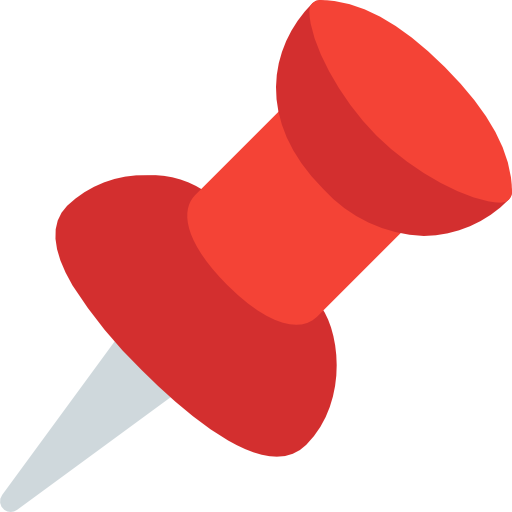
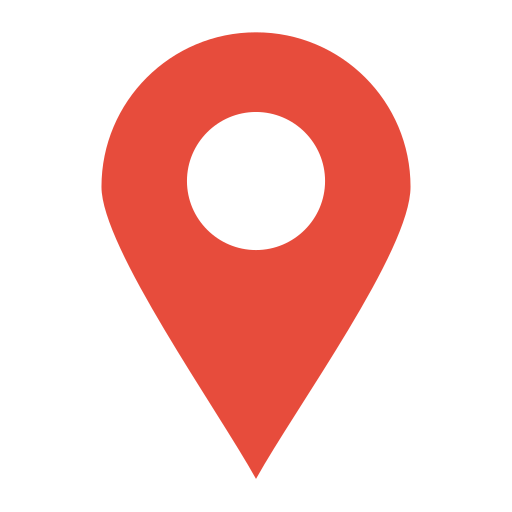
Add header to pin locations and style pinned container
- add a header with an img to pinned locations container
- updated pinned box generator to include a class to target in styling
- implemented hover effect to show/hide close button
- close button set to the top outer right corner
- pin-box set to 1 level deep using flex row
- add new image for pinned locations container and replace pin image with different pin image

diff --git a/src/style.css b/src/style.css
@@ -1,8 +1,9 @@
 body {
   display: grid;
-  grid-template-columns: minmax(100px, 300px) minmax(600px, 1fr);
+  grid-template-columns: minmax(100px, 350px) minmax(600px, 1fr);
   grid-template-rows: minmax(max-content, 70px) minmax(100px, 1fr);
   grid-template-areas: "pins search" "pins dashboard";
+  padding: 10px;
 }
 
 /* search component  */
@@ -65,6 +66,66 @@ body {
 
 .pinned-locations {
   grid-area: pins;
+  border-radius: 20px;
+  box-shadow: 0 0 20px #e0e0e0;
+  background-color: #ededed83;
+  height: calc(92vh - 20px);
+  overflow-y: auto;
+  padding: 20px;
+}
+
+.pinned-header {
+  display: flex;
+  align-items: center;
+  justify-content: center;
+  gap: 20px;
+  border-radius: 10px;
+  background-color: #ffffff81;
+  box-shadow: 0 0 20px #ffffff;
+  margin-bottom: 20px;
+  color: #003c5c;
+}
+
+.pinned-header img {
+  height: 50px;
+}
+
+.pin-box {
+  position: relative;
+  display: flex;
+  gap: 10px;
+  padding: 10px;
+  border-radius: 5px;
+  box-shadow: 0 0 6px #002b42;
+  background-color: #ecf8ff;
+  color: #002b42;
+  margin: 15px 0;
+  min-width: 140px;
+}
+
+.pin-temp {
+  flex-basis: 70px;
+}
+
+.pin-box:hover .close-button {
+  display: block;
+}
+
+.pin-box .close-button {
+  display: none;
+}
+
+.close-button {
+  position: absolute;
+  top: -8px;
+  right: -10px;
+  background: none;
+  border: none;
+  cursor: pointer;
+  border-radius: 10px;
+  box-shadow: 0 0 5px #002b42;
+  text-shadow: 0 2px 2px #002b42;
+  background-color: #ffffff5f;
 }
 
 .pin-img {

diff --git a/src/components/pinnedContent/pinnedBox.js b/src/components/pinnedContent/pinnedBox.js
@@ -5,7 +5,7 @@ import { createSkeletonText } from "../../utils/skeletonHelper.js";
 export const createPinnedBox =
   (onRemove, onClick) =>
   (locationId, city, region, tempF, tempC, isLoading = false) => {
-    const box = createElement("div");
+    const box = createElement("div", "pin-box");
     box.dataset.locationId = locationId;
 
     if (isLoading) {
@@ -19,10 +19,15 @@ export const createPinnedBox =
       return box;
     }
 
-    const location = createTextElement(`${city}, ${region}`);
+    const location = createTextElement(
+      `${city}, ${region}`,
+      "div",
+      "pin-location"
+    );
     const temp = createToggleContainer(tempF, "F", tempC, "C", "temperature");
     const removeBtn = createRemoveBtn(locationId, onRemove);
 
+    temp.classList.add("pin-temp");
     box.appendChild(temp);
     box.appendChild(location);
     box.appendChild(removeBtn);
@@ -36,8 +41,8 @@ export const createPinnedBox =
   };
 
 const createRemoveBtn = (locationId, onRemove) => {
-  const removeBtn = createElement("button");
-  removeBtn.innerHTML = "&#x2716;";
+  const removeBtn = createElement("button", "close-button");
+  removeBtn.innerHTML = "&#10005";
   removeBtn.addEventListener("click", () => onRemove(locationId));
   return removeBtn;
 };

diff --git a/src/components/pinnedContent/pinnedLocationsManager.js b/src/components/pinnedContent/pinnedLocationsManager.js
@@ -9,8 +9,25 @@ import { getForecastData } from "../../api/weatherApi.js";
 import { createPinButton } from "./pinButton.js";
 import { createPinnedBox } from "./pinnedBox.js";
 import { displaySelectLocation } from "../dashboard/dashboard.js";
+import {
+  createElement,
+  createImageElement,
+  createTextElement,
+} from "../../utils/uiElements.js";
+import pinMap from "../../imgs/pin-map.png";
 
 const pinnedContainer = document.querySelector(".pinned-locations");
+
+const pinLocationHeader = () => {
+  const header = createElement("div", "pinned-header");
+  header.appendChild(createImageElement(pinMap));
+  header.appendChild(
+    createTextElement("Pinned Locations", "h2", "pin-txt-header")
+  );
+  return header;
+};
+
+pinnedContainer.appendChild(pinLocationHeader());
 
 const onPinnedLocationClick = async (locationId) => {
   const pinnedLocations = getPinnedLocations();
